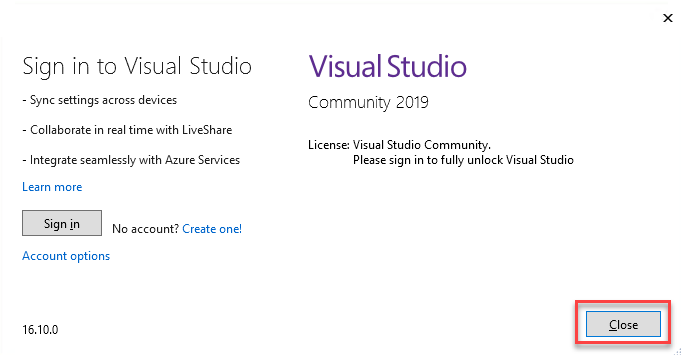
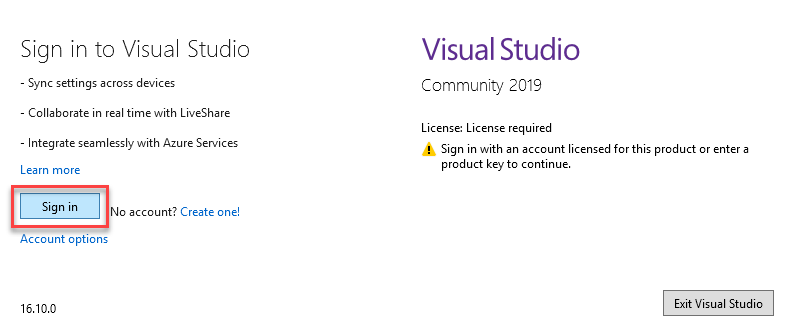
Visual Studio 2019 Sign In #1

diff --git a/Hands-on lab/HOL step-by step - AI-led business process automation.md b/Hands-on lab/HOL step-by step - AI-led business process automation.md
@@ -247,9 +247,9 @@ To process documents, the Azure Function code has to find the latest model train
 
    ![Visual Studio Sign In dialog is presented. "Not now, maybe later" link is highlighted.](media/visualstudio-sign-in.png "Visual Studio Sign In")
 
-10. On the Visual Studio Licensing page select **Close** to continue with the Community version.
+10. On the Visual Studio Licensing page select **Sign-In** and use Microsoft Account credentials. This will register a Visual Studio 2019 Community Edition license for your account for free.
 
-    ![Visual Studio License page is open. Close button is highlighted.](media/visual-studio-license.png "Visual Studio License")
+    ![Visual Studio License page is open. Sign-In button is highlighted.](media/visual-studio-license.png "Visual Studio License")
 
 11. Once the solution is open, select the **ClaimsProcessing.cs (1)** file from the Solution Explorer. This file already has most of the plumbing implemented. Check out the section that gets the latest trained model from Forms Recognizer (2). The only missing piece is the code that runs the document through Forms Recognizer to get the key/value pairs and structure.
 
